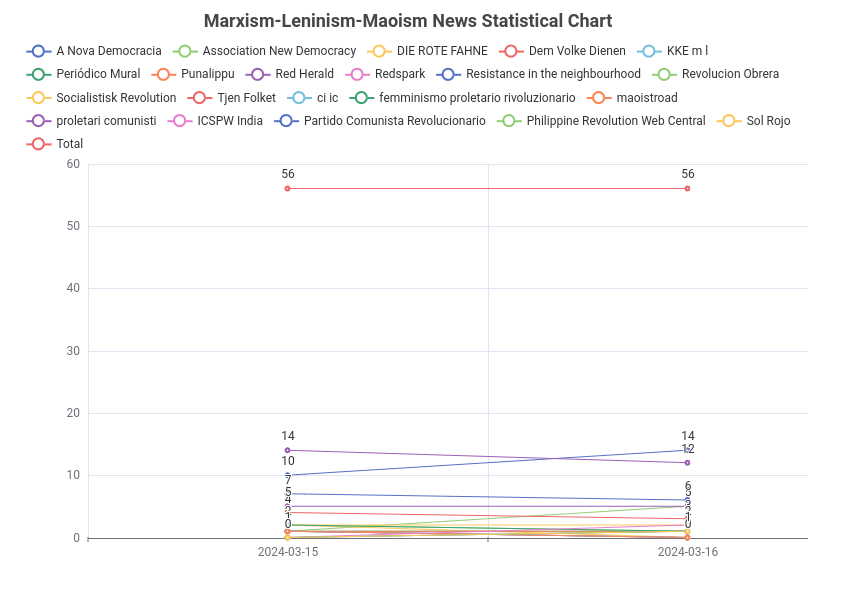
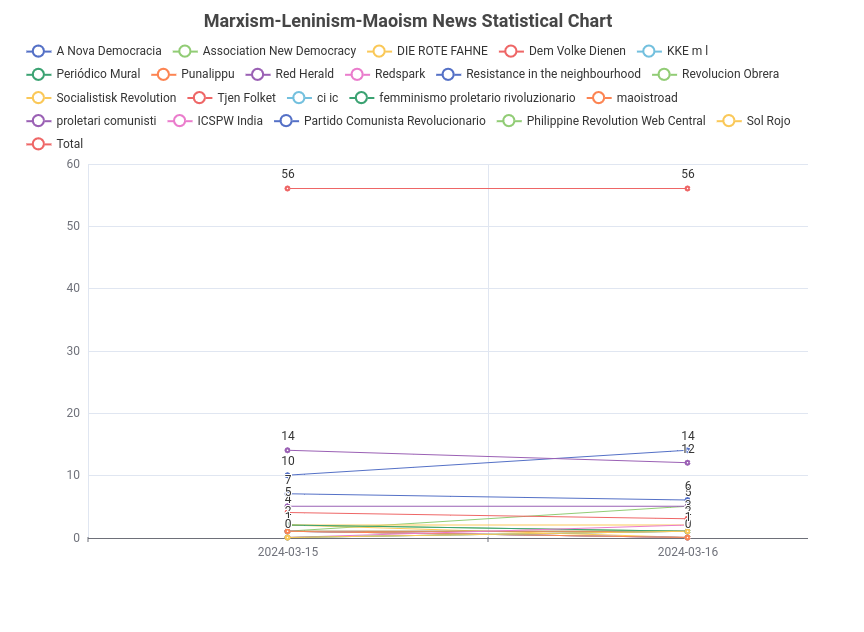
News.

diff --git a/pages/statistic_render.html b/pages/statistic_render.html
@@ -7,11 +7,11 @@
 
 </head>
 <body >
-    <div id="11e1ed35d3ff43a58f7456173aef837e" class="chart-container" style="width:800px; height:600px; "></div>
+    <div id="a99fd008f71041a699d05d09a063e3af" class="chart-container" style="width:800px; height:600px; "></div>
     <script>
-        var chart_11e1ed35d3ff43a58f7456173aef837e = echarts.init(
-            document.getElementById('11e1ed35d3ff43a58f7456173aef837e'), 'white', {renderer: 'canvas'});
-        var option_11e1ed35d3ff43a58f7456173aef837e = {
+        var chart_a99fd008f71041a699d05d09a063e3af = echarts.init(
+            document.getElementById('a99fd008f71041a699d05d09a063e3af'), 'white', {renderer: 'canvas'});
+        var option_a99fd008f71041a699d05d09a063e3af = {
     "animation": true,
     "animationThreshold": 2000,
     "animationDuration": 1000,
@@ -1089,7 +1089,7 @@
         }
     ]
 };
-        chart_11e1ed35d3ff43a58f7456173aef837e.setOption(option_11e1ed35d3ff43a58f7456173aef837e);
+        chart_a99fd008f71041a699d05d09a063e3af.setOption(option_a99fd008f71041a699d05d09a063e3af);
     </script>
 </body>
 </html>

diff --git a/index.htm b/index.htm
@@ -27,7 +27,7 @@ max-width:100%;max-height:100%;
 <h2><a href="./pages/2024-03-16/SPA_NEW/findex.htm">2024-03-16 Noticias (Español)</a> (<a href="./pages/2024-03-16/SPA_NEW/findex_mobile.htm">Móvil</a>)</h2>
 <h2><a href="./pages/2024-03-16/POR_NEW/findex.htm">2024-03-16 Notícias (Português)</a> (<a href="./pages/2024-03-16/POR_NEW/findex_mobile.htm">Móvel</a>)</h2>
 <h3><a href="https://urwar2024.github.io/">[查看乌克兰战争新闻 (Check Ukraine-Russia War News)]</a></h3>
-<embed type="text/html" src="./pages/statistic_render.html" width='864' height='600'></embed> 
+<embed type="text/html" src="./pages/statistic_render.html" width='864' height='632'></embed> 
 <img src="Title.png"/>
 <h2>新马列毛主义译文与重要文献：</h2>
 </hr>
